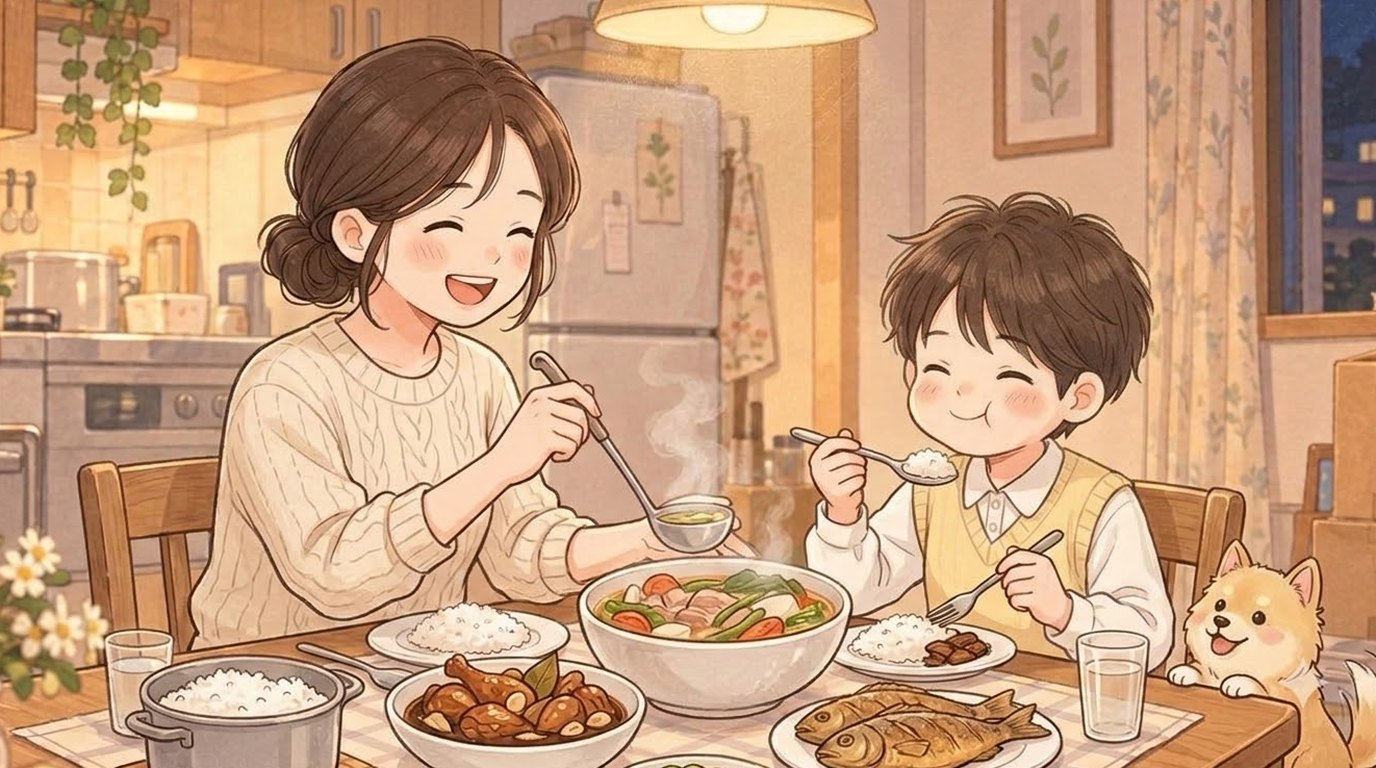
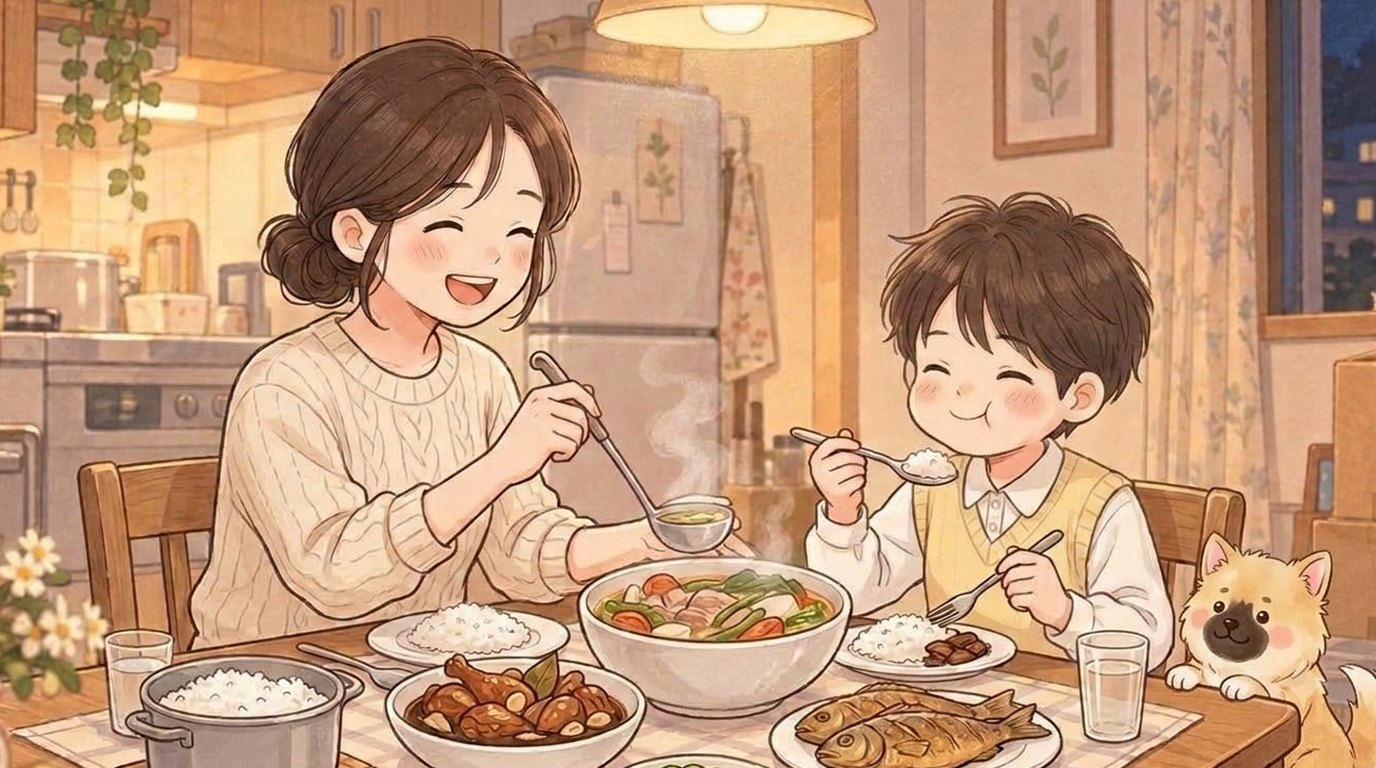
Dinner (English mode, boy): Pangpang redrawn with his dark brown muzzle, white chest and pink cheeks; Mom, the hero and the food unchanged

Changed region(s): [[0.8438, 0.6875, 1.0, 1.0]]

diff --git a/index.html b/index.html
@@ -119,14 +119,14 @@ body,button{word-break:keep-all;overflow-wrap:break-word}
 <div id="fader"></div>
 <script>
 // same address, newest version: if the page this phone has kept is older than the one online, fetch the new one and reopen
-const BUILD='1025093011';
+const BUILD='1025093625';
 try{fetch(location.pathname,{cache:'no-store'}).then(r=>r.text()).then(t=>{const m=t.match(/const BUILD='(\d+)'/);if(m&&m[1]!==BUILD&&sessionStorage.getItem('upd')!==m[1]){sessionStorage.setItem('upd',m[1]);fetch(location.pathname,{cache:'reload'}).then(()=>location.reload())}}).catch(()=>{})}catch(e){}
 </script>
-<script src="i18n.js?v=1025093011"></script>
-<script src="i18n_prologue_v2.js?v=1025093011"></script>
-<script src="day2/i18n_engine.js?v=1025093011"></script>
-<script src="day2/data.js?v=1025093011"></script>
-<script src="day3/data.js?v=1025093011"></script>
+<script src="i18n.js?v=1025093625"></script>
+<script src="i18n_prologue_v2.js?v=1025093625"></script>
+<script src="day2/i18n_engine.js?v=1025093625"></script>
+<script src="day2/data.js?v=1025093625"></script>
+<script src="day3/data.js?v=1025093625"></script>
 <script>
 // ---------- data ----------
 const MW=1672,MH=941,KID=180;
@@ -511,27 +511,27 @@ function pickHero(){const m=document.getElementById('modal'),c=document.getEleme
  c.innerHTML=`<h2>${tr('괴짜교실 반장되기')}</h2><p>${tr('말 한마디 못 하는 전학생,<br>반장 선거에 나가다.')}</p><p style="margin-top:14px">${tr('누구로 할까요?')}</p>${(()=>{const s=loadSave();return s&&s.day>=2&&s.mode===UI+'-'+LANG?`<p><button class="big" id="cont">${tr(s.day+'일차부터 이어 하기')}</button></p>`:''})()}<div class="pick heroes"><button data-h="hero_f"><img src="faces/hero_f_smile.jpg" alt="여자 주인공"></button><button data-h="hero_m"><img src="faces/hero_m_smile.jpg" alt="남자 주인공"></button></div>`;
  m.classList.add('on');{const cb=document.getElementById('cont');if(cb)cb.onclick=()=>{const s=loadSave();HERO=s.hero;Object.assign(HEART,s.heart||{});(s.found||[]).forEach(k=>FOUND.add(k));HEART_D1={...HEART};chime();(typeof contGame==='function'?contGame(s):startDay(Math.min(s.day,Object.keys(window.D3||{}).length?3:2)))}}c.querySelectorAll('.pick button').forEach(b=>b.onclick=()=>{HERO=b.dataset.h;m.classList.remove('on');chime();bgm('day');load('home_am');say([['nar','','이사 온 다음 날 아침. 아직 풀지 못한 상자들이 쌓여 있다.'],['think','sad','(오늘부터 새 학교야. 여기 말도 아직 서툰데…….)'],['think','smile','({m}한테 인사하고 학교 가야지.)']],morning)})}
 </script>
-<script src="day2/engine.js?v=1025093011"></script>
-<script src="day2/ep_minho.js?v=1025093011"></script>
-<script src="day2/i18n_meet.js?v=1025093011"></script>
-<script src="day2/meet.js?v=1025093011"></script>
-<script src="day2/ep_sua.js?v=1025093011"></script>
-<script src="day2/i18n_sua.js?v=1025093011"></script>
-<script src="day2/ep_hangyeol.js?v=1025093011"></script>
-<script src="day2/i18n_hangyeol.js?v=1025093011"></script>
-<script src="day2/ep_siwoo.js?v=1025093011"></script>
-<script src="day2/i18n_siwoo.js?v=1025093011"></script>
-<script src="day2/ep_haram.js?v=1025093011"></script>
-<script src="day2/i18n_haram.js?v=1025093011"></script>
-<script src="day2/ep_jiho.js?v=1025093011"></script>
-<script src="day2/i18n_jiho.js?v=1025093011"></script>
-<script src="day2/ep_hyeeun.js?v=1025093011"></script>
-<script src="day2/i18n_hyeeun.js?v=1025093011"></script>
-<script src="words_ja_ru.js?v=1025093011"></script>
-<script src="day2/mybag.js?v=1025093011"></script>
-<script src="day2/spots.js?v=1025093011"></script>
-<script src="day2/textfit.js?v=1025093011"></script>
-<script src="day2/tester.js?v=1025093011"></script>
+<script src="day2/engine.js?v=1025093625"></script>
+<script src="day2/ep_minho.js?v=1025093625"></script>
+<script src="day2/i18n_meet.js?v=1025093625"></script>
+<script src="day2/meet.js?v=1025093625"></script>
+<script src="day2/ep_sua.js?v=1025093625"></script>
+<script src="day2/i18n_sua.js?v=1025093625"></script>
+<script src="day2/ep_hangyeol.js?v=1025093625"></script>
+<script src="day2/i18n_hangyeol.js?v=1025093625"></script>
+<script src="day2/ep_siwoo.js?v=1025093625"></script>
+<script src="day2/i18n_siwoo.js?v=1025093625"></script>
+<script src="day2/ep_haram.js?v=1025093625"></script>
+<script src="day2/i18n_haram.js?v=1025093625"></script>
+<script src="day2/ep_jiho.js?v=1025093625"></script>
+<script src="day2/i18n_jiho.js?v=1025093625"></script>
+<script src="day2/ep_hyeeun.js?v=1025093625"></script>
+<script src="day2/i18n_hyeeun.js?v=1025093625"></script>
+<script src="words_ja_ru.js?v=1025093625"></script>
+<script src="day2/mybag.js?v=1025093625"></script>
+<script src="day2/spots.js?v=1025093625"></script>
+<script src="day2/textfit.js?v=1025093625"></script>
+<script src="day2/tester.js?v=1025093625"></script>
 <script>
 // the goal shows big for a few seconds, then folds into a small pill (tap it to open it again)
 {const g=document.getElementById('goal');let t=null;const big=()=>{g.classList.remove('mini');clearTimeout(t);t=setTimeout(()=>g.classList.add('mini'),4000)};
